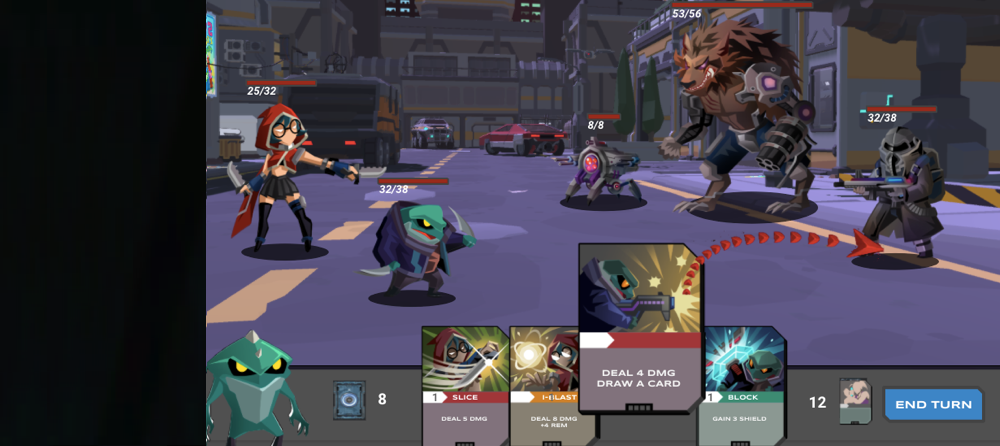
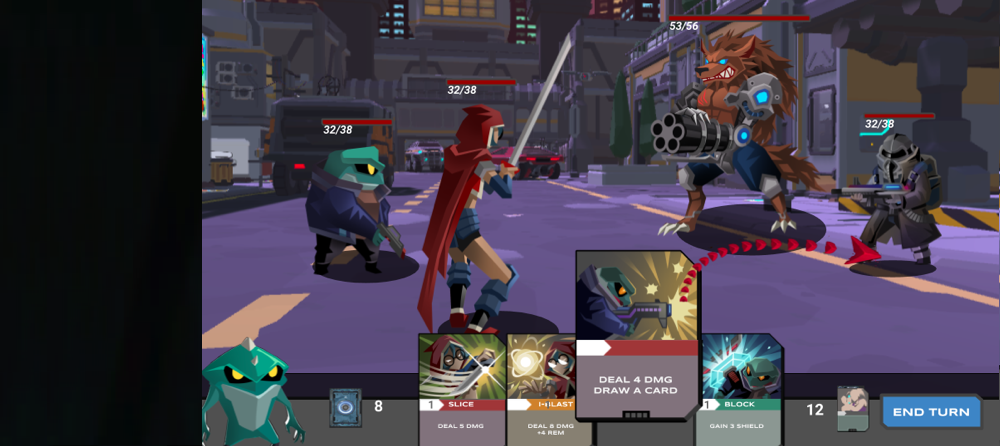
updated BG + set api id to post to v2 sheet (due to number of files limit)

diff --git a/landing-pages/grimm20xx-v3/js/coming-soon.js b/landing-pages/grimm20xx-v3/js/coming-soon.js
@@ -31,7 +31,7 @@ function SubForm (){
   $("#processing").show();
 
   $.ajax({
-    url:"https://api.apispreadsheets.com/data/4577/",
+    url:"https://api.apispreadsheets.com/data/4576/",
     type:"post",
     data:data,
     success: function(){
